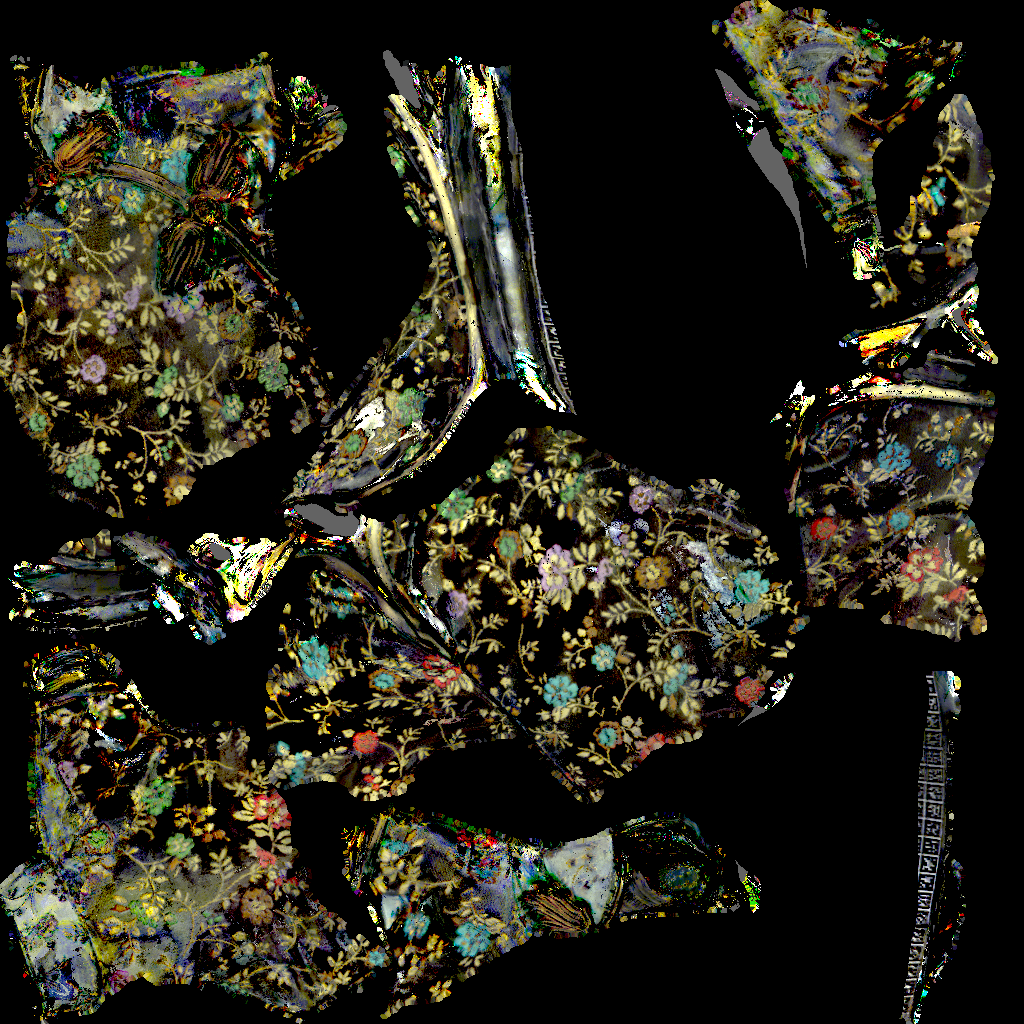
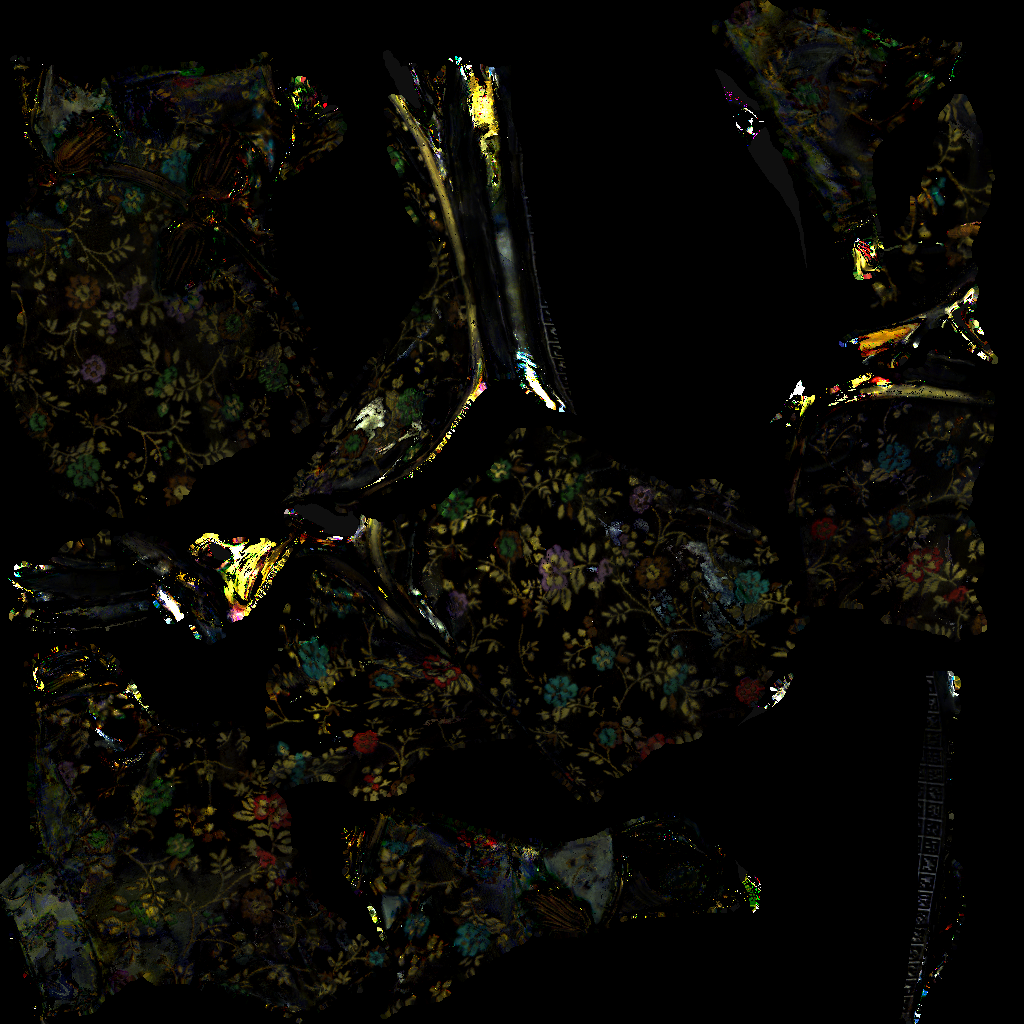
add some details

diff --git a/README.md b/README.md
@@ -67,11 +67,13 @@ keywords = {illumination multiplexing, SVBRDF, optimal lighting pattern}
 For commercial licensing options, please email hwu at acm.org.
 See COPYING for the open source license.
 
-The third party remeshing tool ACVD and alignment tool CPD are not under our protection.
-
 
 
 ## Reconstruction process
+
+The reconstruction needs photographs taken with our scanner, a pre-trained network model and a pre-captured geometry shape as input. First, perform structure-from-motion with COLMAP, resulting in a 3D point cloud and camera poses with respect to it. Next, this point cloud is precisely aligned with
+the pre-captured shape. Then the view information of each vertex can be assembled as the input of the network. Last, we fit the predicted grayscale specular lumitexel with L-BFGS-B, to obtain the refletance parameters.
+
 
 Download our [Cheongsam](https://drive.google.com/file/d/1KOAJcUrDdWgEWN_obL5ccwNYJRrgFdua/view?usp=sharing) test data and unzip it in appearance_scanner/data/.
 
@@ -181,6 +183,7 @@ run `extract_measurements/run.bat`
 #### 3.1 Use meshlab to align mesh roughly
 
 Open fused.ply and Cheongsam/scan/Cheongsam.ply in the same meshlab window.
+Cheongsam.ply is pre-capptured with a commercial mobile 3D scanner, EinScan Pro 2X Plus.
 
 <img src="./imgs/meshlab_align.png" title="meshlab align">
 
@@ -192,7 +195,7 @@ run `CoherentPointDrift/run.bat` to align Cheongsam.ply to fused.ply.
 
 #### 3.2 Further Alignment
 
-run `CoherentPointDrift/CoherentPointDrift-master/simplify/run.bat` to simplify two meshes.
+run `CoherentPointDrift/CoherentPointDrift-master/simplify/run.bat` to simplify two meshes. It will call meshlabserver to simplify two meshes so that save the processing time.
 
 Open the CPD project in Matlab and run `main.m`.
 <img src="./imgs/aln2.png" title="matlab align">
@@ -203,13 +206,16 @@ You should open fused.ply and meshed-poisson_obj.ply in the same meshlab window 
 
 ### 4. Generate view information from registrated cameras
 
-#### 4.1
+#### 4.1 Remesh
 
- run `ACVD/aarun.bat`  
+run `ACVD/aarun.bat`  
  
- save undistort_feature/meshed-poisson_obj_remeshed.ply as undistort_feature/meshed-poisson_obj_remeshed.obj
+save undistort_feature/meshed-poisson_obj_remeshed.ply as undistort_feature/meshed-poisson_obj_remeshed.obj
 
-#### 4.2
+It is not necessary to reconstruct all the vertices on the pre-captured shape in our case. The remesh step will output an optimized 3D
+triangular mesh with a user defined vertex budget, which is controlled by `NVERTICES` in `aarun.bat`. 
+
+#### 4.2 uvatlas
 
 copy data_processing/device_configuration/extrinsic.bin to undistort_feature/
 copy Cheongsam/512.exr and 1024.exr to undistort_feature/
@@ -220,7 +226,7 @@ We recommend that you generate uv maps with resolution of 512x512 because it wil
 
 You can set `UVMAP_WIDTH` and `UVMAP_HEIGHT` to 1024 in `uv/uv_generator.bat` if you pursue higher quality.
 
-#### 4.3
+#### 4.3 Compute view information
 
 in `generate_texture/texgen.bat`, set `TEXTURE_RESOLUTION` to the certain resolution
 
@@ -231,7 +237,7 @@ choose the same line or the other reference on meshed-poisson_obj_remeshed.obj a
 The marker cylinder's diameter is 10cm, so we set `REAL_L` to 100.
 
 
-run `generate_texture/texgen.bat` to output view information of all registrated cameras
+run `generate_texture/texgen.bat` to output view information of all registrated cameras.
 
 ### 5. Gather data
 
@@ -254,7 +260,7 @@ Note: If you find the split.sh cannot run properly and complain about
     </tr>
     <tr>
         <td align="center">diffuse</td>
-        <td align="center">specular(with exposure -3 in photoshop)</td>
+        <td align="center">specular</td>
         <td align="center">roughness</td>
     </tr>
     <tr>
@@ -269,6 +275,9 @@ Note: If you find the split.sh cannot run properly and complain about
 </table>
 
 ### 7. Render results
+
+We use the anisotropic GGX model to represent reflectance. The object can be rendered with path tracing using NVIDIA OptiX or openGL.
+
 <table>
     <tr>
         <td align="center"><img src='./imgs/render1.png'></td> 
@@ -278,6 +287,9 @@ Note: If you find the split.sh cannot run properly and complain about
 </table>
 
 ## Reference & Third party tools
+Shining3D. 2021. EinScan Pro 2X Plus Handheld Industrial Scanner. Retrieved January, 2021 from https://www.einscan.com/handheld-
+3d-scanner/2x-plus/
+
 Colmap: https://demuc.de/colmap/
 
 Coherent Point Drift: https://ieeexplore.ieee.org/document/5432191
